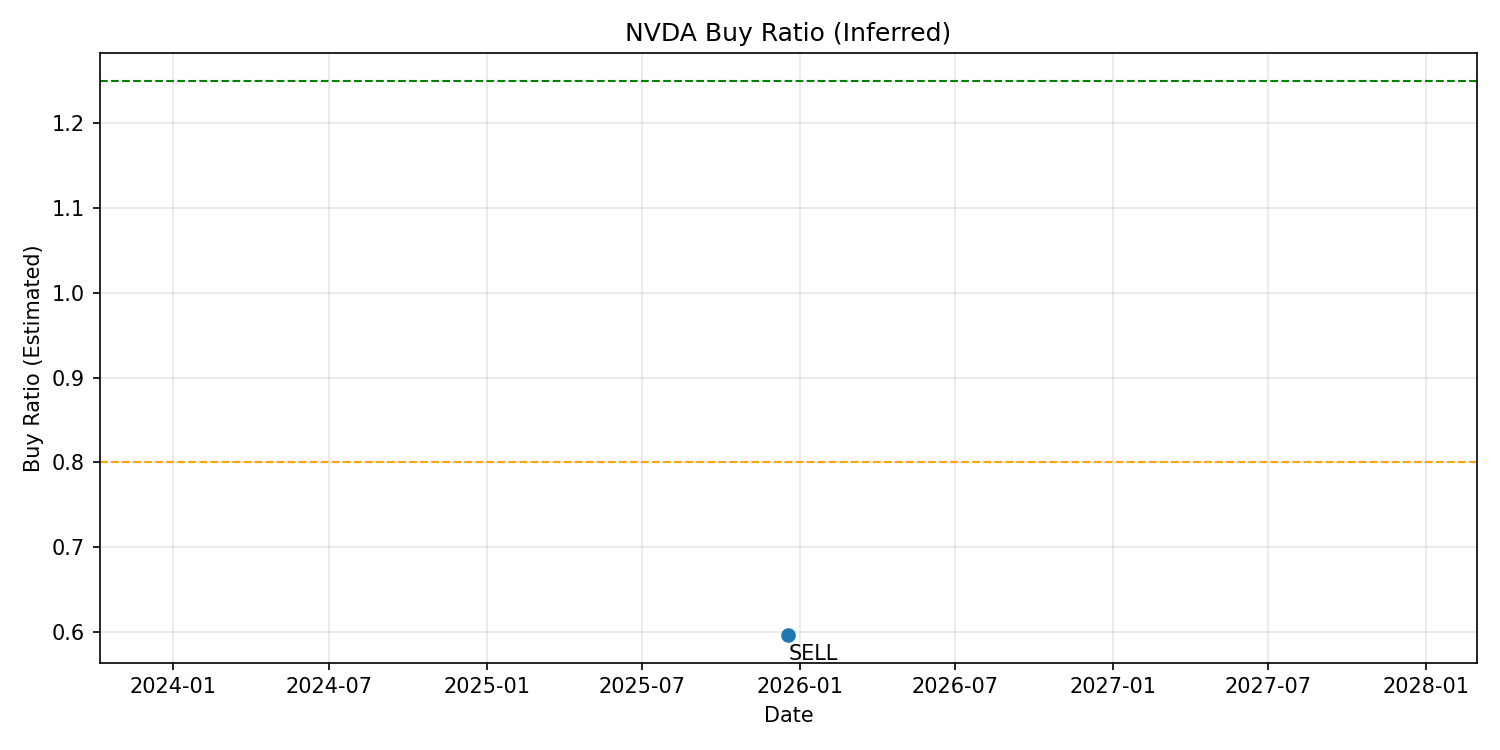
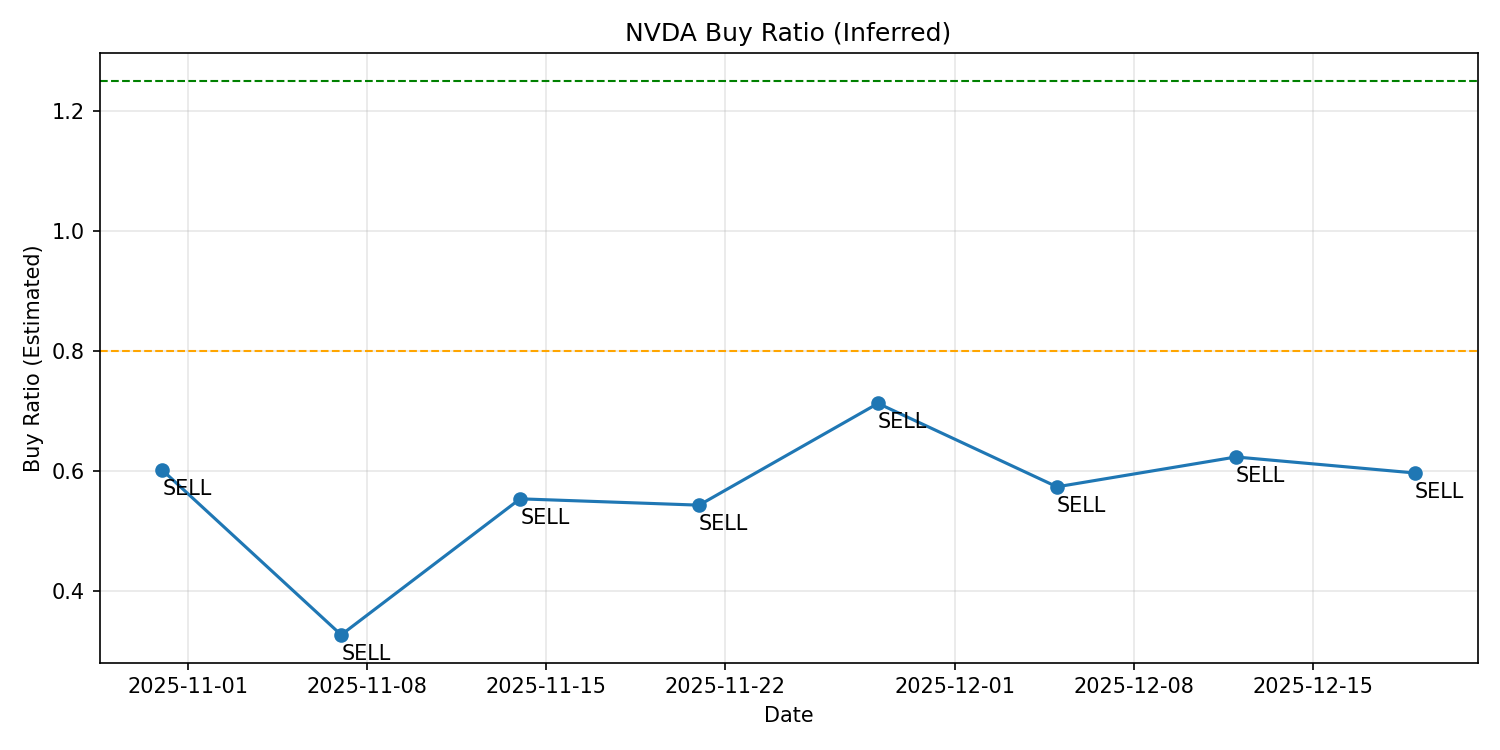
added weekly fetch funciton backfill

diff --git a/darkpool_analysis/config.py b/darkpool_analysis/config.py
@@ -13,14 +13,13 @@ from dotenv import load_dotenv
 # =============================================================================
 # Default Configuration (can be overridden via .env)
 # =============================================================================
-DEFAULT_TICKERS = ["NVDA"]
+DEFAULT_TICKERS = ["RGTI"]
 EXCLUDED_FINRA_TICKERS = {"SPXW"}  # Options symbols, not equities
 
 # Analysis defaults
-DEFAULT_RUN_MODE = "daily"
 DEFAULT_TARGET_DATE = "2025-12-19"  # Last trading day (Friday)
-DEFAULT_FETCH_MODE = "single"  # "single" or "backfill"
-DEFAULT_BACKFILL_FRIDAYS = 8  # Number of past Fridays to fetch in backfill mode
+DEFAULT_FETCH_MODE = "daily"  # "single", "daily", or "weekly"
+DEFAULT_BACKFILL_COUNT = 8  # Number of periods to fetch (days for daily, weeks for weekly)
 DEFAULT_MIN_LIT_VOLUME = 10000
 DEFAULT_MARKET_TZ = "US/Eastern"
 DEFAULT_RTH_START = "09:30"
@@ -29,7 +28,15 @@ DEFAULT_INFERENCE_VERSION = "OptionB_v1"
 
 # API endpoints (not secrets)
 DEFAULT_POLYGON_BASE_URL = "https://api.polygon.io"
-DEFAULT_FINRA_OTC_URL = "https://api.finra.org/data/group/otcMarket/name/weeklySummary"
+
+# FINRA endpoints for complete off-exchange coverage
+DEFAULT_FINRA_ENDPOINTS = {
+    "ats": "https://api.finra.org/data/group/otcMarket/name/weeklySummary",
+    "nms_tier1": "https://api.finra.org/data/group/otcNonAts/name/nmsNonAtsTier1WeeklySummary",
+    "nms_tier2": "https://api.finra.org/data/group/otcNonAts/name/nmsNonAtsTier2WeeklySummary",
+    "otc": "https://api.finra.org/data/group/otcNonAts/name/otcNonAtsWeeklySummary",
+}
+DEFAULT_FINRA_SOURCES = ["ats", "nms_tier1", "nms_tier2", "otc"]  # Fetch from all sources
 DEFAULT_FINRA_TOKEN_URL = ""  # Empty = use direct API key auth (no OAuth needed)
 DEFAULT_FINRA_REQUEST_METHOD = "POST"
 
@@ -79,6 +86,20 @@ def _get_past_fridays(count: int, from_date: date) -> list[date]:
     return fridays  # Most recent first
 
 
+def _get_past_trading_days(count: int, from_date: date) -> list[date]:
+    """Return the last N trading days (excludes weekends)."""
+    days = []
+    current = from_date
+
+    while len(days) < count:
+        # Skip weekends (Saturday=5, Sunday=6)
+        if current.weekday() < 5:
+            days.append(current)
+        current -= timedelta(days=1)
+
+    return days  # Most recent first
+
+
 @dataclass(frozen=True)
 class Config:
     root_dir: Path
@@ -90,9 +111,8 @@ class Config:
     tickers: list[str]
     finra_tickers: list[str]
     min_lit_volume: float
-    run_mode: str
     fetch_mode: str
-    backfill_fridays: int
+    backfill_count: int
     target_date: date
     target_dates: list[date]
     market_tz: str
@@ -102,7 +122,8 @@ class Config:
     polygon_api_key: Optional[str]
     polygon_base_url: str
     polygon_trades_file: Optional[str]
-    finra_otc_url: Optional[str]
+    finra_endpoints: dict[str, str]
+    finra_sources: list[str]
     finra_otc_file: Optional[str]
     finra_api_key: Optional[str]
     finra_api_secret: Optional[str]
@@ -128,11 +149,13 @@ def load_config() -> Config:
         target_date = datetime.now(tz).date()
 
     fetch_mode = os.getenv("FETCH_MODE", DEFAULT_FETCH_MODE).lower()
-    backfill_fridays = int(os.getenv("BACKFILL_FRIDAYS", str(DEFAULT_BACKFILL_FRIDAYS)))
+    backfill_count = int(os.getenv("BACKFILL_COUNT", str(DEFAULT_BACKFILL_COUNT)))
 
-    if fetch_mode == "backfill":
-        target_dates = _get_past_fridays(backfill_fridays, target_date)
-    else:
+    if fetch_mode == "weekly":
+        target_dates = _get_past_fridays(backfill_count, target_date)
+    elif fetch_mode == "daily":
+        target_dates = _get_past_trading_days(backfill_count, target_date)
+    else:  # "single"
         target_dates = [target_date]
 
     tickers = _parse_csv_env("TICKERS") or DEFAULT_TICKERS
@@ -151,9 +174,8 @@ def load_config() -> Config:
         tickers=tickers,
         finra_tickers=finra_tickers,
         min_lit_volume=float(os.getenv("MIN_LIT_VOLUME", str(DEFAULT_MIN_LIT_VOLUME))),
-        run_mode=os.getenv("RUN_MODE", DEFAULT_RUN_MODE).lower(),
         fetch_mode=fetch_mode,
-        backfill_fridays=backfill_fridays,
+        backfill_count=backfill_count,
         target_date=target_date,
         target_dates=target_dates,
         market_tz=market_tz,
@@ -163,7 +185,8 @@ def load_config() -> Config:
         polygon_api_key=os.getenv("POLYGON_API_KEY"),
         polygon_base_url=os.getenv("POLYGON_BASE_URL", DEFAULT_POLYGON_BASE_URL),
         polygon_trades_file=os.getenv("POLYGON_TRADES_FILE"),
-        finra_otc_url=os.getenv("FINRA_OTC_URL", DEFAULT_FINRA_OTC_URL),
+        finra_endpoints=DEFAULT_FINRA_ENDPOINTS,
+        finra_sources=_parse_csv_env("FINRA_SOURCES") or DEFAULT_FINRA_SOURCES,
         finra_otc_file=os.getenv("FINRA_OTC_FILE"),
         finra_api_key=os.getenv("FINRA_API_KEY"),
         finra_api_secret=os.getenv("FINRA_API_SECRET"),

diff --git a/darkpool_analysis/fetch_finra.py b/darkpool_analysis/fetch_finra.py
@@ -71,16 +71,14 @@ def _load_finra_from_file(path: str) -> pd.DataFrame:
     return pd.read_csv(path)
 
 
-def _load_finra_from_api(config: Config) -> pd.DataFrame:
-    if not config.finra_otc_url:
-        raise ValueError("FINRA_OTC_URL is required when FINRA_OTC_FILE is not set.")
+def _load_finra_from_api(config: Config, url: str) -> pd.DataFrame:
     headers = _build_finra_headers(config)
     method = config.finra_request_method
     params = config.finra_request_params or {}
     payload = config.finra_request_json
     if method == "POST":
         response = requests.post(
-            config.finra_otc_url,
+            url,
             headers=headers,
             params=params,
             json=payload,
@@ -88,7 +86,7 @@ def _load_finra_from_api(config: Config) -> pd.DataFrame:
         )
     else:
         response = requests.get(
-            config.finra_otc_url,
+            url,
             headers=headers,
             params=params,
             timeout=60,
@@ -153,6 +151,10 @@ def _normalize_finra_columns(df: pd.DataFrame, config: Config) -> pd.DataFrame:
     else:
         normalized["trade_count"] = pd.NA
 
+    # Preserve source column if present
+    if "source" in df.columns:
+        normalized["source"] = df["source"].values
+
     normalized = normalized.dropna(subset=["symbol", "week_start_date", "off_exchange_volume"])
     return normalized
 
@@ -163,9 +165,29 @@ def fetch_finra_otc_volume(
     if config.finra_otc_file:
         logger.info("Loading FINRA OTC data from file: %s", config.finra_otc_file)
         raw_df = _load_finra_from_file(config.finra_otc_file)
+        raw_df["source"] = "file"
     else:
-        logger.info("Fetching FINRA OTC data from API.")
-        raw_df = _load_finra_from_api(config)
+        # Fetch from all configured FINRA sources
+        all_frames = []
+        for source_name in config.finra_sources:
+            if source_name not in config.finra_endpoints:
+                logger.warning("Unknown FINRA source: %s, skipping", source_name)
+                continue
+            url = config.finra_endpoints[source_name]
+            logger.info("Fetching FINRA data from %s: %s", source_name, url)
+            try:
+                df = _load_finra_from_api(config, url)
+                df["source"] = source_name
+                all_frames.append(df)
+                logger.info("Fetched %d rows from %s", len(df), source_name)
+            except Exception as exc:
+                logger.error("Failed to fetch from %s: %s", source_name, exc)
+                continue
+
+        if not all_frames:
+            raise RuntimeError("No FINRA data fetched from any source.")
+        raw_df = pd.concat(all_frames, ignore_index=True)
+        logger.info("Combined %d total rows from %d sources", len(raw_df), len(all_frames))
 
     normalized = _normalize_finra_columns(raw_df, config)
     normalized = normalized[normalized["symbol"].isin(config.finra_tickers)].copy()

diff --git a/darkpool_analysis/db.py b/darkpool_analysis/db.py
@@ -19,7 +19,8 @@ def init_db(conn: duckdb.DuckDBPyConnection) -> None:
             symbol TEXT,
             week_start_date DATE,
             off_exchange_volume DOUBLE,
-            trade_count DOUBLE
+            trade_count DOUBLE,
+            source TEXT
         )
         """
     )
